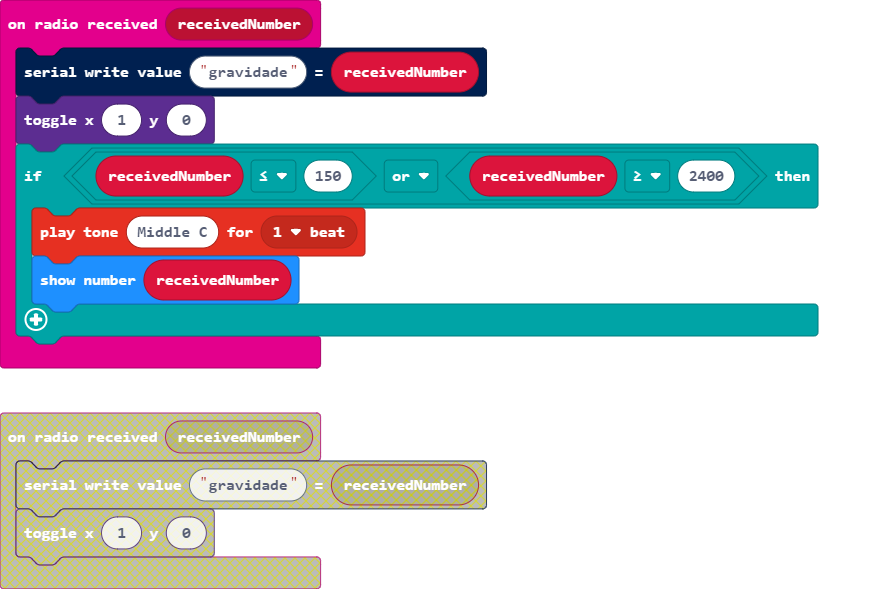
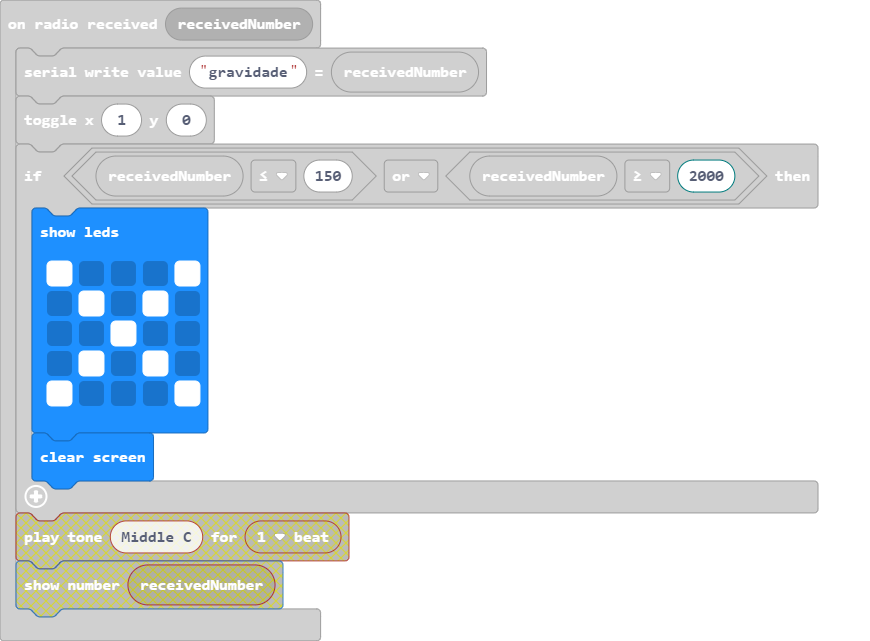
Update main.blocks, main.ts

diff --git a/main.ts b/main.ts
@@ -1,9 +1,15 @@
 radio.onReceivedNumber(function (receivedNumber) {
     serial.writeValue("gravidade", receivedNumber)
     led.toggle(1, 0)
-    if (receivedNumber <= 150 || receivedNumber >= 2400) {
-        music.playTone(262, music.beat(BeatFraction.Whole))
-        basic.showNumber(receivedNumber)
+    if (receivedNumber <= 150 || receivedNumber >= 2000) {
+        basic.showLeds(`
+            # . . . #
+            . # . # .
+            . . # . .
+            . # . # .
+            # . . . #
+            `)
+        basic.clearScreen()
     }
 })
 basic.showString("RECEPTOR GRAVIDADE")
